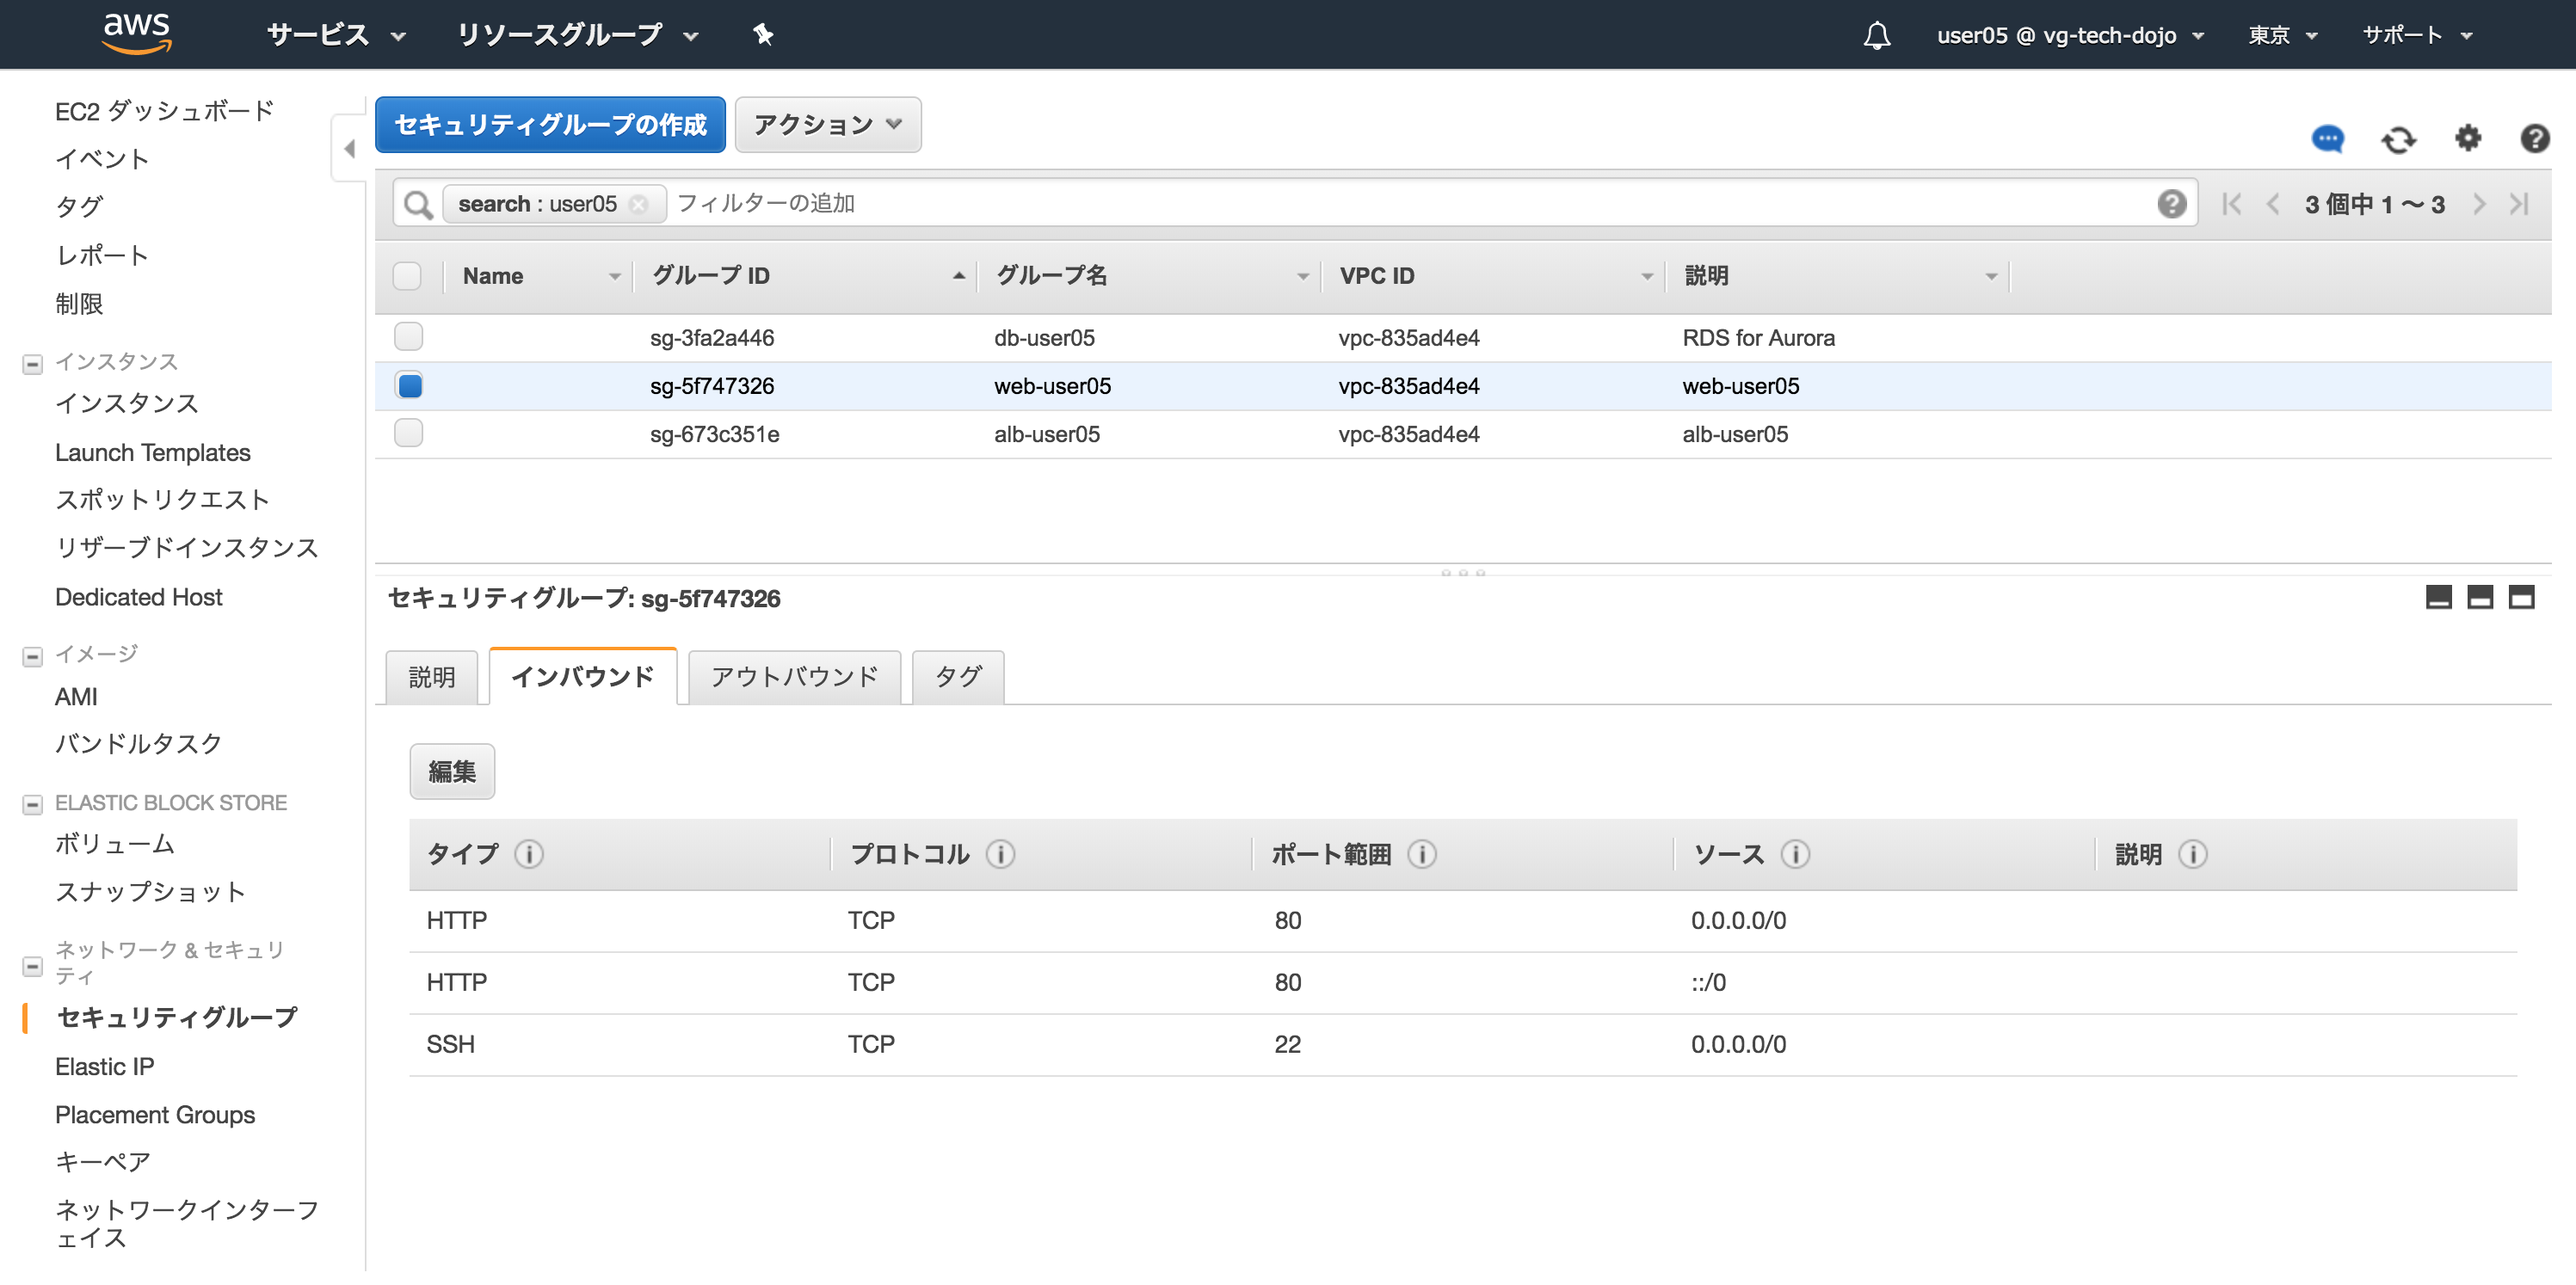
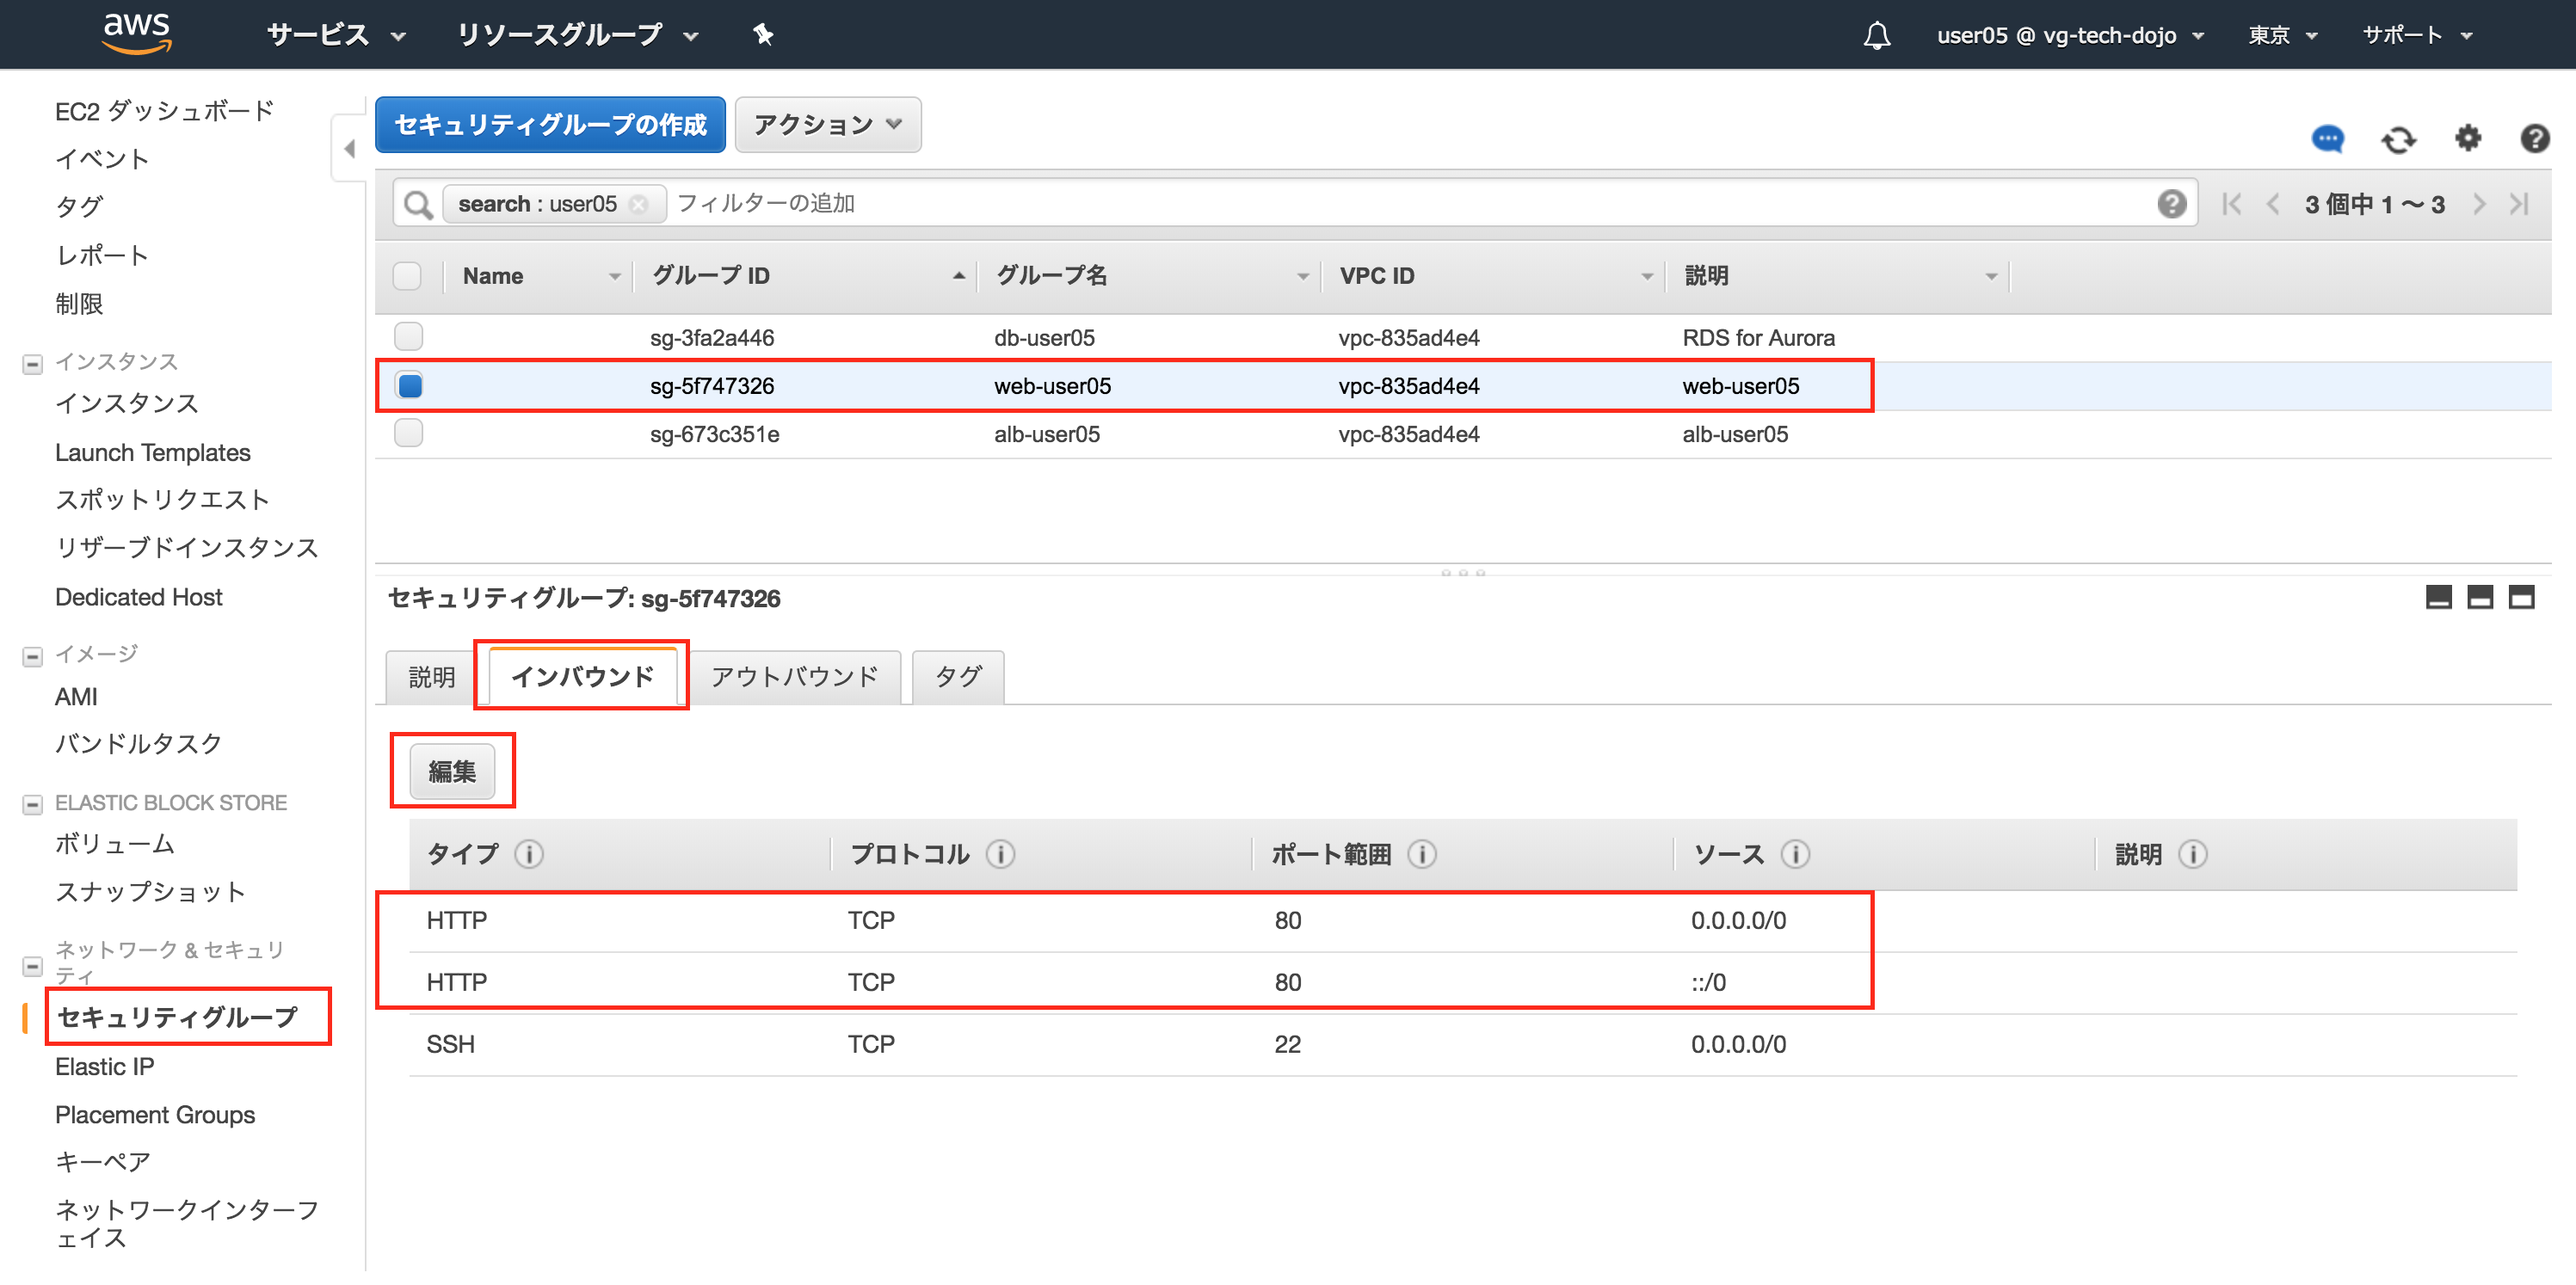
commit

diff --git a/Step-3.md b/Step-3.md
@@ -454,9 +454,13 @@ mysql>
 ![modify-security-group-5](./images/step-3/modify-security-group-5.png "MODIFY-SECURITY-GROUP-5")
 
 ----
+**左下のセキュリティグループから作成したEC2インスタンス用のセキュリティグループ「web-userXX」をチェックし、インバウンドタブで表示されるルールを確認しましょう。この中にあるHTTPのルールを変更します。編集ボタンを押下**
+
 ![modify-security-group-2](./images/step-3/modify-security-group-2.png "MODIFY-SECURITY-GROUP-2")
 
 ----
+**インバウンドの一つ目のHTTPのルールのソースの値に「al」と入力しましょう。ELB(ALB)用に作成したセキュリティグループが補完して表示されたら選択しましょう。合わせて二つ目のHTTTPのルールはバツボタンにて削除しましょう**
+
 ![modify-security-group-3](./images/step-3/modify-security-group-3.png "MODIFY-SECURITY-GROUP-3")
 
 ----
